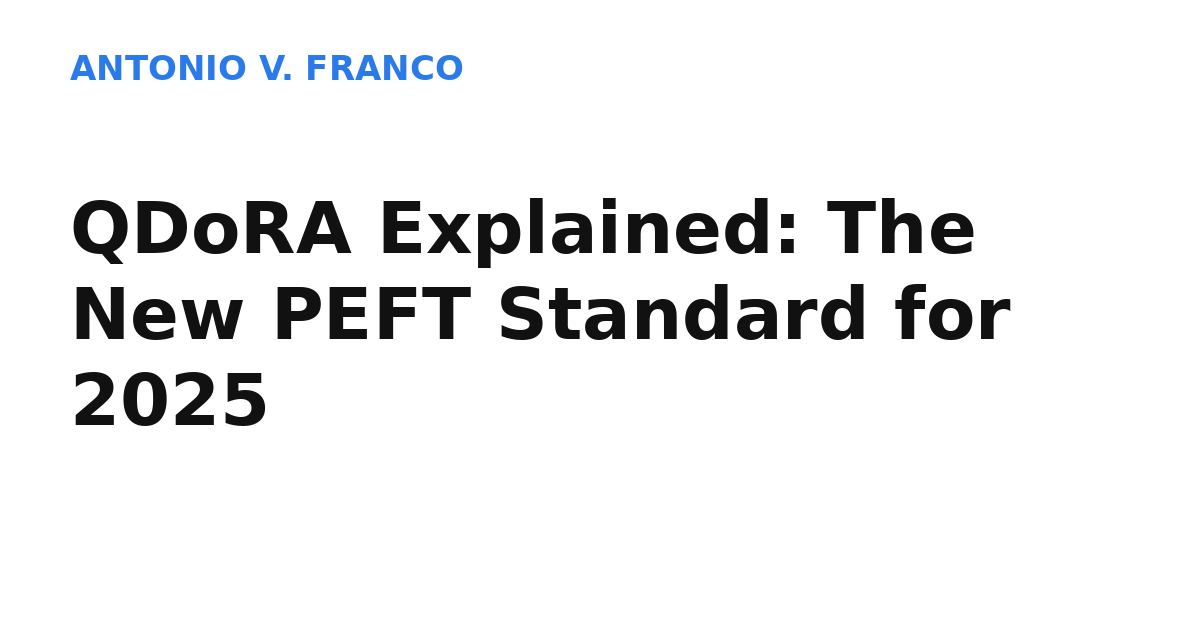
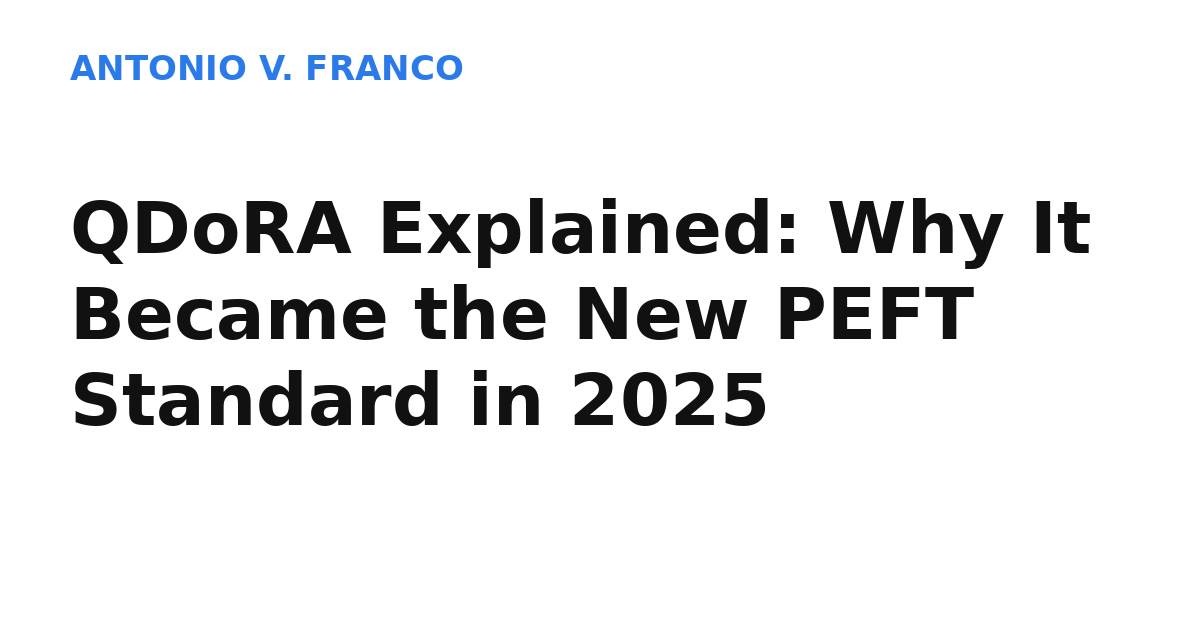
Improve QDoRA metadata and validate future descriptions

diff --git a/scripts/validate_content.py b/scripts/validate_content.py
@@ -22,6 +22,7 @@ Checks per published post:
 
 Dependencies: PyYAML (`pip install pyyaml`).
 """
+import html as htmllib
 import json
 import re
 import sys
@@ -59,6 +60,32 @@ GHOST_URLS = [
     "/posts/2026/auditable-contract-screening-nli/",
 ]
 
+# Legacy slugs whose published description predates the strict description
+# rules. The exemption is allowed ONLY while the current description equals the
+# exact legacy value recorded here: an exception applies to exactly one aspect
+# (agentic = length 206; deepseek = missing final punctuation). If the value is
+# ever changed, ALL new rules apply normally. glm-5-2 and QDoRA comply already
+# and need no exception.
+LEGACY_DESCRIPTIONS = {
+    "agentic-ai-slms-why-models-above-50-cents-burning-money": {
+        "value": "A first-hand look at why DeepSeek V4 Flash and Qwen3-Coder-Next make anything above US$0.50 per million output tokens a waste of money in agentic pipelines, and why SLMs are the future of industrial agents.",
+        "exempt": {"length"},
+    },
+    "deepseek-v4-flash-glm-5-2-combination": {
+        "value": "Why DeepSeek V4 Flash handles 70% of my workload and GLM-5.2 covers the rest — a practical AI stack for serious development work",
+        "exempt": {"final_punctuation"},
+    },
+}
+
+
+def legacy_exemptions_for(slug: str, desc: str) -> set:
+    """Return the set of exempt checks IF the slug's current description exactly
+    matches its recorded legacy value. Otherwise returns empty (all rules apply)."""
+    entry = LEGACY_DESCRIPTIONS.get(slug)
+    if entry and desc.strip() == entry["value"]:
+        return set(entry.get("exempt", []))
+    return set()
+
 errors: list[str] = []
 
 
@@ -71,6 +98,17 @@ def load(path: Path) -> str:
         return path.read_text()
     except FileNotFoundError:
         return ""
+
+
+def html_unescape_full(s: str) -> str:
+    """Repeatedly HTML-unescape until stable (handles double-encoded entities
+    such as '&amp;#39;' that can appear in XML/RSS descriptions)."""
+    prev = None
+    cur = s
+    while cur != prev:
+        prev = cur
+        cur = htmllib.unescape(cur)
+    return cur
 
 
 def split_front_matter(text: str):
@@ -135,6 +173,26 @@ def main() -> int:
             if req not in fm or fm.get(req) in (None, ""):
                 err(f"{slug}: missing front matter '{req}'")
 
+        # --- description quality (block truncated/elliptical descriptions) ---
+        desc = fm.get("description")
+        if isinstance(desc, str) and desc:
+            strip = desc.rstrip()
+            exempt = legacy_exemptions_for(slug, desc)
+            if "length" not in exempt and not (110 <= len(strip) <= 170):
+                err(f"{slug}: description length {len(strip)} not in [110, 170]")
+            if "final_punctuation" not in exempt and strip[-1] not in ".!?":
+                err(f"{slug}: description must end with '.', '!' or '?'")
+            if strip.endswith("…") or strip.endswith("..."):
+                err(f"{slug}: description must not end with ellipsis")
+            if "…" in strip:
+                err(f"{slug}: description contains ellipsis character '…'")
+            # fragment cut-off: the sentence (minus closing punctuation) must end
+            # on a real word character, not a truncated/mid-word fragment.
+            core = strip.rstrip(".!?").rstrip()
+            if not core or not core[-1].isalnum():
+                err(f"{slug}: description ends on a truncated fragment")
+
+
         # seoTopics must be a specific list field (not confused with sources/entities/images)
         if not isinstance(fm.get("seoTopics"), list) or not fm["seoTopics"]:
             err(f"{slug}: seoTopics missing or not a non-empty list")
@@ -198,6 +256,22 @@ def main() -> int:
         if html.count('rel="canonical"') + html.count("rel=canonical") != 1:
             err(f"{slug}: canonical not unique")
 
+        # --- description in generated metadata must match front matter exactly ---
+        if isinstance(desc, str) and desc:
+            def meta_content(pattern):
+                m = re.search(pattern, html, re.I)
+                return m.group(1) if m else None
+            want = desc.strip()
+            got = meta_content(r'name=["\']?description["\']?\s+content=["\']?([^">]+)')
+            if got is None or got.strip() != want:
+                err(f"{slug}: <meta name=description> != front matter description")
+            got = meta_content(r'property=["\']?og:description["\']?\s+content=["\']?([^">]+)')
+            if got is None or got.strip() != want:
+                err(f"{slug}: og:description != front matter description")
+            got = meta_content(r'name=["\']?twitter:description["\']?\s+content=["\']?([^">]+)')
+            if got is None or got.strip() != want:
+                err(f"{slug}: twitter:description != front matter description")
+
         # --- JSON-LD ---
         blocks = re.findall(r'<script type=["\']?application/ld\+json["\']?>(.*?)</script>', html, re.S)
         if not blocks:
@@ -229,6 +303,11 @@ def main() -> int:
                             err(f"{slug}: BlogPosting.headline != .Title")
                         if node.get("name") != fm.get("title"):
                             err(f"{slug}: BlogPosting.name != .Title")
+                        if isinstance(desc, str) and desc and node.get("description") != desc.strip():
+                            err(f"{slug}: BlogPosting.description != front matter description")
+                    if isinstance(node, dict) and node.get("@type") == "WebPage":
+                        if isinstance(desc, str) and desc and node.get("description") != desc.strip():
+                            err(f"{slug}: WebPage.description != front matter description")
 
         # --- presence in artifacts ---
         if url not in sitemap:
@@ -239,6 +318,25 @@ def main() -> int:
             err(f"{slug}: not in llms.txt")
         if url not in llmsfull:
             err(f"{slug}: not in llms-full.txt")
+
+        # RSS item description must match front matter description
+        if isinstance(desc, str) and desc:
+            m = re.search(
+                rf'<item>.*?<link>{re.escape(url)}</link>.*?<description>(.*?)</description>',
+                rss, re.S)
+            if not (m and html_unescape_full(m.group(1)).strip() == desc.strip()):
+                err(f"{slug}: RSS item description != front matter description")
+            # llms.txt description line, when present
+            llms_desc_ok = bool(re.search(
+                rf"URL: {re.escape(url)}\s*\n\s*Date:.*?\n\s*Description: ({re.escape(desc.strip())})",
+                llms, re.S))
+            if not llms_desc_ok:
+                err(f"{slug}: llms.txt description != front matter description")
+            llmsfull_desc_ok = bool(re.search(
+                rf"URL: {re.escape(url)}\s*\n\s*Title:.*?\n\s*Date:.*?\n\s*Description: ({re.escape(desc.strip())})",
+                llmsfull, re.S))
+            if not llmsfull_desc_ok:
+                err(f"{slug}: llms-full.txt description != front matter description")
 
         # --- internal links resolve (does NOT require new links) ---
         for href in re.findall(r'href="(/[^"]*)"', html):

diff --git a/content/posts/2025/qdora-explained-the-new-peft-standard-for-2025/index.md b/content/posts/2025/qdora-explained-the-new-peft-standard-for-2025/index.md
@@ -1,7 +1,7 @@
 ---
-title: "QDoRA Explained: The New PEFT Standard for 2025"
-seoTitle: "QDoRA Explained: The New PEFT Standard for 2025"
-description: "The landscape of parameter-efficient fine-tuning has been going through a quiet revolution since 2021, and most people haven’t noticed yet. While LoRA democ…"
+title: "QDoRA Explained: Why It Became the New PEFT Standard in 2025"
+seoTitle: "QDoRA Explained: Why It Became the New PEFT Standard in 2025"
+description: "QDoRA combines DoRA’s weight decomposition with 4-bit quantization for memory-efficient LLM fine-tuning. Learn the mathematics, implementation, and trade-offs."
 date: "2025-11-11"
 publishDate: "2025-11-11"
 lastmod: "2025-11-11"
